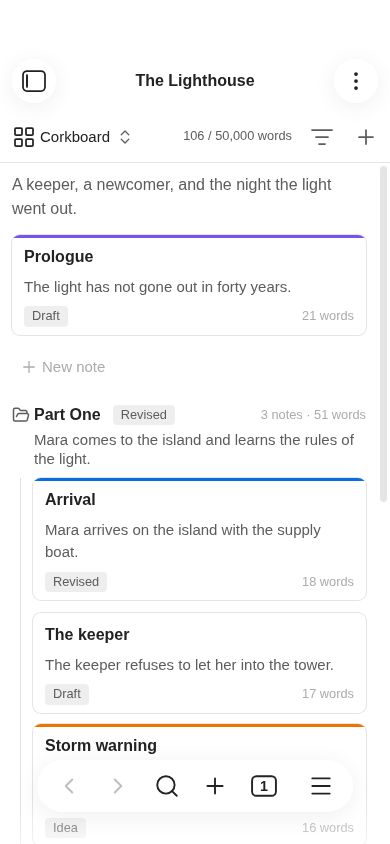
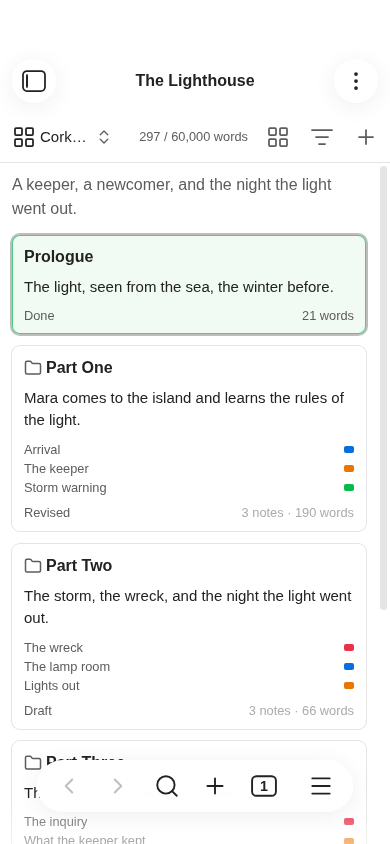
0.12.33: README pictures in the current look
Claude-Session: https://claude.ai/code/session_014DmJwKwGbjSUTHaLkJjArz

diff --git a/README.md b/README.md
@@ -77,6 +77,8 @@ synopsis** in its menu. So the board is always one folder's items, in one order.
 
 #### Arrange by label
 
+![The corkboard arranged by label, with notes in subfolders shown and small cards](docs/images/arrange-by-label.png)
+
 **Arrange** in the toolbar shows the same cards by label instead of **In a grid**: one line for each label, and
 the cards along the lines in the binder's order, each in a place of its own, on its label's line. It shows which
 thread (a storyline, a point of view, a character) each scene is on, and how the threads take turns through the
@@ -182,6 +184,8 @@ you scroll to them.
 
 ## Snapshots
 
+![The Snapshots dialog, comparing an earlier snapshot with the note now](docs/images/snapshots.png)
+
 A snapshot is a note's text as it was, set aside so you can rewrite without losing anything. Only notes in a binder
 have them. The three things below are in a note's own menu and in the file explorer's, behind a **Snapshots** button (a clock) in the
 header of any note of a binder, and under **Snapshots** in the menu of a card, an outliner row or a manuscript title;
@@ -218,6 +222,8 @@ Three things to know:
 - Without Binders, they're still there: open a `.snapshot` file in any text editor.
 
 ## Focus mode
+
+![A note in focus mode](docs/images/focus-mode.png)
 
 For writing a note of a binder with nothing else on the screen: the text, in your vault's own type and line length, and
 one button to leave. **Toggle focus mode** in the command palette (give it a hotkey of your own), the button in the
@@ -431,7 +437,7 @@ What a mouse and a keyboard do differently there:
   clock, with the place and the word counts beside it if they're on. It goes while you type and comes back when you
   touch the page. The keyboard's own toolbar stays. Press and hold the leave button for the menu.
 
-![Binders on a phone](docs/images/mobile.png)
+![The corkboard on a phone](docs/images/mobile.png)
 
 ## Compatibility
 

diff --git a/CHANGELOG.md b/CHANGELOG.md
@@ -3,6 +3,12 @@
 All notable changes to Binders. Versions follow [semantic versioning](https://semver.org): see AGENTS.md for what
 counts as a patch, minor or major change. Entries are added by `npm run ship`.
 
+## 0.12.33 (2026-10-02)
+
+### Changed
+
+- The README's pictures show the plugin as it looks now, with new ones for arranging by label, snapshots and focus mode.
+
 ## 0.12.32 (2026-10-02)
 
 ### Fixed
